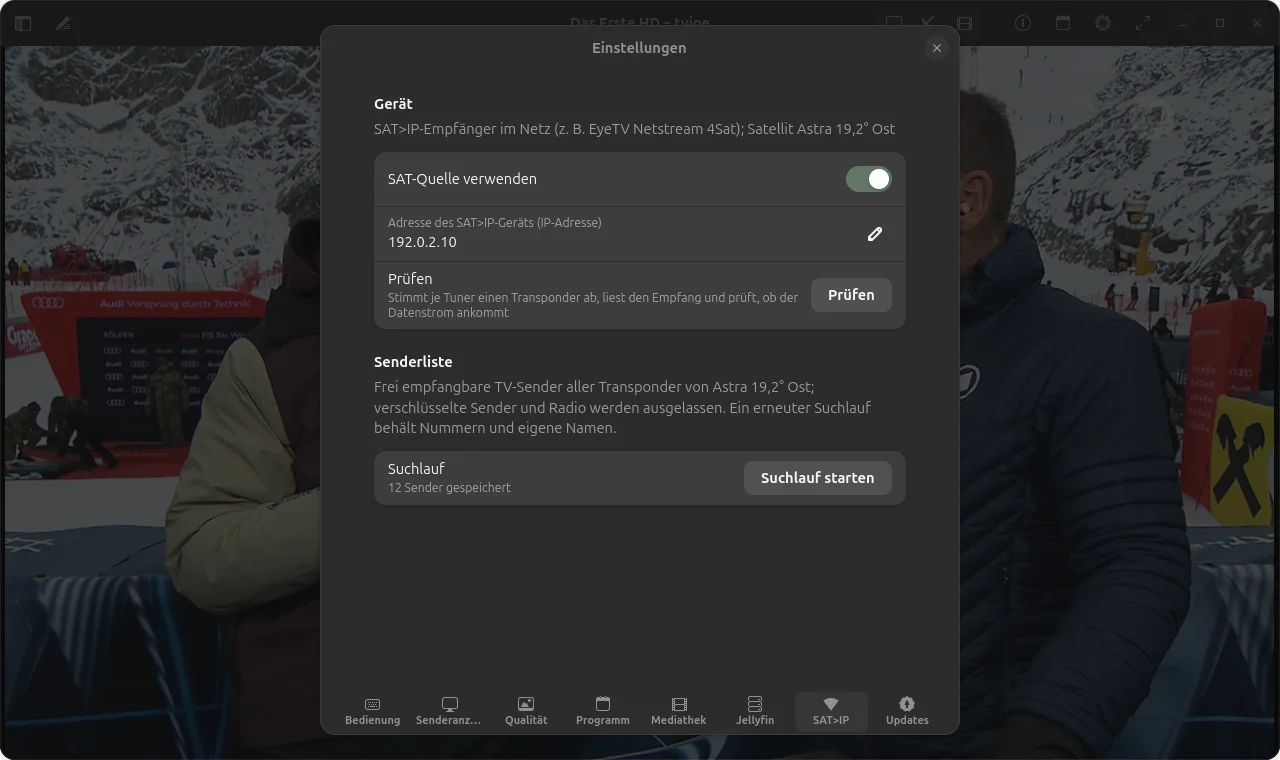
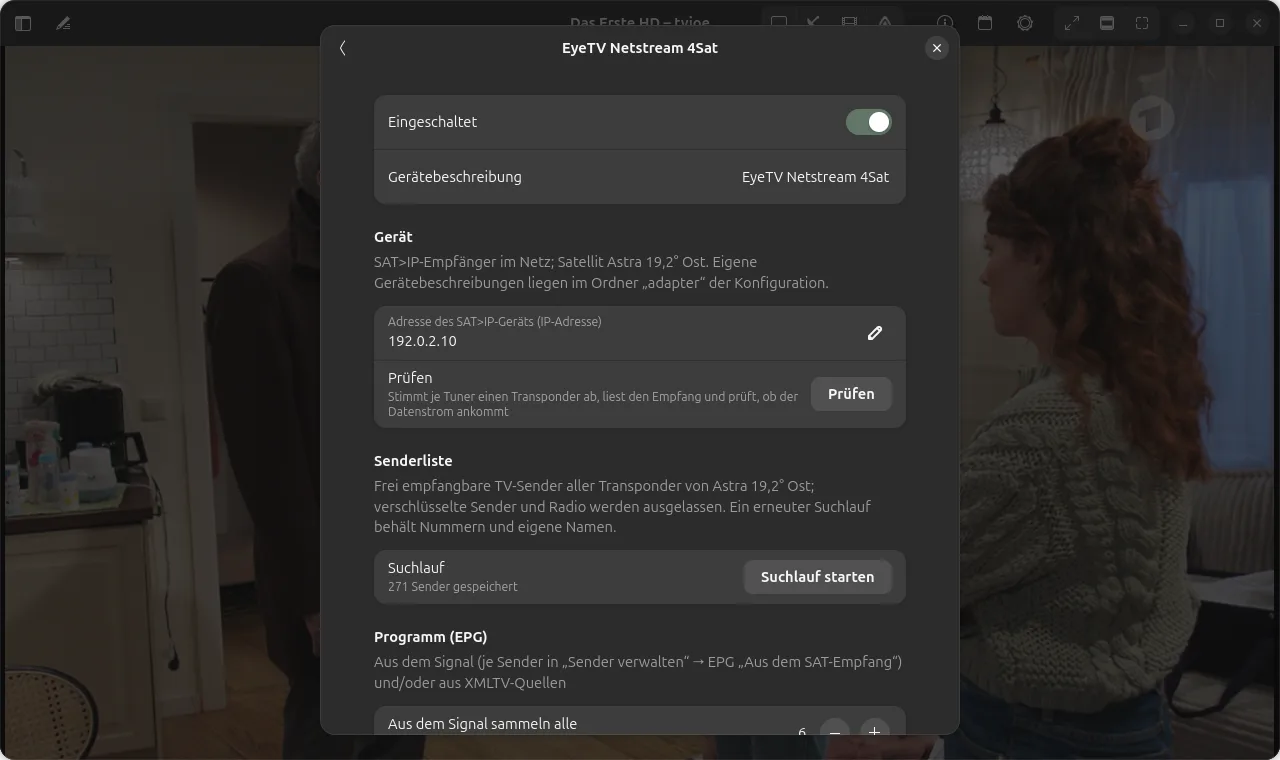
Anleitung SAT>IP: neues Bild der Einrichtung unter Empfang

diff --git a/docs/SAT-IP.md b/docs/SAT-IP.md
@@ -25,9 +25,9 @@ umgeschaltet wird mit dem Schüssel-Knopf im Quellenumschalter der Kopfleiste.
    Radio, Platzhalter und Testdienste bleiben weg.
 
 <p align="center">
-  <img src="screenshots/einstellungen-sat.webp" alt="Einstellungen, Reiter SAT>IP mit Adresse, Prüfen und Suchlauf" width="760">
+  <img src="screenshots/einstellungen-sat.webp" alt="Einstellungen → Empfang, Seite der Netstream 4Sat mit Adresse, Prüfen und Suchlauf" width="760">
   <br>
-  <em>Einrichtung des SAT>IP-Geräts (Beispieladresse; Bild aus einer älteren Fassung mit eigenem Reiter „SAT>IP“)</em>
+  <em>Einstellungen → Empfang → EyeTV Netstream 4Sat (Beispieladresse)</em>
 </p>
 
 Ein erneuter Suchlauf behält Nummern, eigene Namen, Favoriten und den Aktiv-Zustand. Neu
